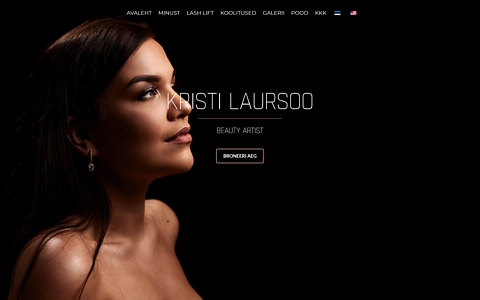
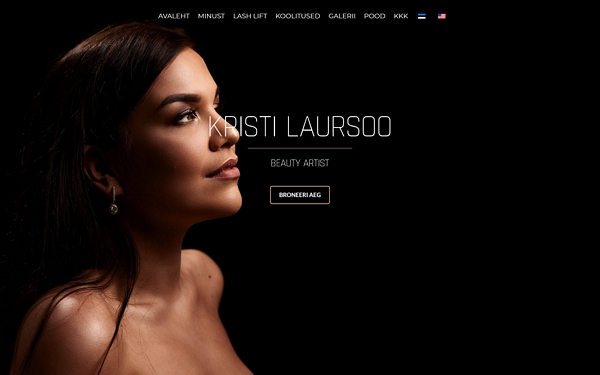
Spacing and margin improvements

diff --git a/index.html b/index.html
@@ -44,9 +44,9 @@
 <body id="page-top" data-spy="scroll" data-target="#side-nav">
 
 	<!-- Navigation -->
-	<nav class="navbar navbar-expand-lg navbar-dark fixed-top p-3" id="side-nav">
+	<nav class="navbar navbar-expand-xl navbar-dark fixed-top p-3" id="side-nav">
 		<a class="js-scroll-trigger" href="#page-top">
-			<img class="img-fluid rounded-circle img-profile d-none d-lg-block mt-2 mb-4" src="img/profile.jpg" alt="Image of Rauno">
+			<img class="img-fluid rounded-circle img-profile d-none d-xl-block mt-2 mb-4" src="img/profile.jpg" alt="Image of Rauno">
 		</a>
 		<button type="button" class="navbar-toggler collapsed" data-toggle="collapse" data-target="#navbarSupportedContent"
 		 aria-controls="navbarSupportedContent" aria-expanded="false" aria-label="Toggle navigation">
@@ -289,7 +289,7 @@
 						<h3 class="mb-0"><a href="https://beautyartistkristi.ee/" target="_blank">beautyartistkristi.ee</a></h3>
 						<div class="subheading mb-4">November 2018</div>
 						<div class="row">
-							<div class="col-sm-8 col-md-5 col-lg-2">
+							<div class="col-sm-9 col-md-5 col-lg-4 col-xl-2 my-auto">
 								<!-- Cover -->
 								<a data-fancybox="beautyartistkristi-gallery" href="img/projects/beautyartistkristi/cover.jpg"><img class="img-project-cover img-fluid"
 									 src="img/projects/beautyartistkristi/tn-cover.jpg"></a>
@@ -309,7 +309,7 @@
 									<a data-fancybox="beautyartistkristi-gallery" href="img/projects/beautyartistkristi/checkout.jpg"></a>
 								</div>
 							</div>
-							<div class="col-sm-8 col-md-7 my-auto" id="project-1">
+							<div class="col-sm-9 col-md-7 my-auto" id="project-1">
 								What to do when your client wants tons of functionality, whilst keeping the site
 								classy and minimal at the same time? You work with it. A booking system, fully-fledged
 								e-store, Instagram feed, comparison sliders, contact and registration forms - this site has it all.
@@ -327,7 +327,7 @@
 						<h3 class="mb-0"><span class="text-accentuated">bellafiore.ee</span></h3>
 						<div class="subheading mb-4">June 2018</div>
 						<div class="row">
-							<div class="col-sm-8 col-md-5 col-lg-2">
+							<div class="col-sm-9 col-md-5 col-lg-4 col-xl-2 my-auto">
 								<!-- Cover -->
 								<a data-fancybox="bellafiore-gallery" href="img/projects/bellafiore/home.jpg"><img class="img-project-cover img-fluid"
 									 src="img/projects/bellafiore/tn-home.jpg"></a>
@@ -341,7 +341,7 @@
 									<a data-fancybox="bellafiore-gallery" href="img/projects/bellafiore/checkout.jpg"></a>
 								</div>
 							</div>
-							<div class="col-sm-8 col-md-7 my-auto" id="project-2">
+							<div class="col-sm-9 col-md-7 my-auto" id="project-2">
 								A minimalistic take on e-commerce. Not all sites have to be feature-packed. This is an example of how to
 								meet the needs of a client who just wants something simple with minimal upkeep. Powered by WordPress, a no
 								bells-and-whistles approach ensures that the client can focus on building his/her business with close to no
@@ -359,7 +359,7 @@
 						<h3 class="mb-0"><span class="text-accentuated">leevik.ee</span></h3>
 						<div class="subheading mb-4">December 2017</div>
 						<div class="row">
-							<div class="col-sm-8 col-md-5 col-lg-2">
+							<div class="col-sm-9 col-md-5 col-lg-4 col-xl-2 my-auto">
 								<!-- Cover -->
 								<a data-fancybox="leevik-gallery" href="img/projects/leevik/cover.jpg"><img class="img-project-cover img-fluid"
 									 src="img/projects/leevik/tn-cover.jpg"></a>
@@ -372,7 +372,7 @@
 									<a data-fancybox="leevik-gallery" href="img/projects/leevik/contact-mobile.jpg"></a>
 								</div>
 							</div>
-							<div class="col-sm-8 col-md-7 my-auto" id="project-3">
+							<div class="col-sm-9 col-md-7 my-auto" id="project-3">
 								Website built on Ghost that aims to keep all focus on the portfolio of
 								photographer Daniel Leevik.
 								Uses a Masonry layout to provide maximum viewability and resposiveness on devices small and large. Reverse

diff --git a/js/functions.js b/js/functions.js
@@ -26,12 +26,15 @@ $(document).ready(function () {
 
 	// Animations on waypoint
 	$(".social-icons").waypoint(function () {
-		$(".social-icons > a").addClass("animated zoomIn");
-		$(".social-icons").css("visibility", "visible");
-		setTimeout(function () {
-			$(".social-icons > a").removeClass("animated zoomIn");
-			$(".social-icons > a").addClass("hvr-float");
-		}, 1050);
+		if (!$(this.element).hasClass("animation-complete")) {
+			$(".social-icons > a").addClass("animated zoomIn");
+			$(".social-icons").css("visibility", "visible");
+			setTimeout(function () {
+				$(".social-icons > a").removeClass("animated zoomIn");
+				$(".social-icons > a").addClass("hvr-float");
+				$(".social-icons").addClass("animation-complete");
+			}, 1000);
+		}
 	}, {
 		offset: "80%"
 	});
@@ -100,7 +103,7 @@ $(document).ready(function () {
 	});
 
 	$(".img-project-cover").waypoint(function () {
-		if(!$(this.element).hasClass("animation-complete")) {
+		if (!$(this.element).hasClass("animation-complete")) {
 			$(this.element).addClass('animated fadeInLeft');
 			$(this.element).css("visibility", "visible");
 			var currentImage = $(this.element);
@@ -108,7 +111,7 @@ $(document).ready(function () {
 				$(currentImage).removeClass("animated fadeInLeft");
 				$(currentImage).addClass("hvr-backward");
 				$(currentImage).addClass("animation-complete");
-			}, 1050);
+			}, 1000);
 		}
 	}, {
 		offset: "95%"

diff --git a/js/main.js b/js/main.js
@@ -63,12 +63,15 @@ $(document).ready(function () {
 
 	// Animations on waypoint
 	$(".social-icons").waypoint(function () {
-		$(".social-icons > a").addClass("animated zoomIn");
-		$(".social-icons").css("visibility", "visible");
-		setTimeout(function () {
-			$(".social-icons > a").removeClass("animated zoomIn");
-			$(".social-icons > a").addClass("hvr-float");
-		}, 1050);
+		if (!$(this.element).hasClass("animation-complete")) {
+			$(".social-icons > a").addClass("animated zoomIn");
+			$(".social-icons").css("visibility", "visible");
+			setTimeout(function () {
+				$(".social-icons > a").removeClass("animated zoomIn");
+				$(".social-icons > a").addClass("hvr-float");
+				$(".social-icons").addClass("animation-complete");
+			}, 1000);
+		}
 	}, {
 		offset: "80%"
 	});
@@ -137,7 +140,7 @@ $(document).ready(function () {
 	});
 
 	$(".img-project-cover").waypoint(function () {
-		if(!$(this.element).hasClass("animation-complete")) {
+		if (!$(this.element).hasClass("animation-complete")) {
 			$(this.element).addClass('animated fadeInLeft');
 			$(this.element).css("visibility", "visible");
 			var currentImage = $(this.element);
@@ -145,7 +148,7 @@ $(document).ready(function () {
 				$(currentImage).removeClass("animated fadeInLeft");
 				$(currentImage).addClass("hvr-backward");
 				$(currentImage).addClass("animation-complete");
-			}, 1050);
+			}, 1000);
 		}
 	}, {
 		offset: "95%"

diff --git a/css/main.css b/css/main.css
@@ -32,7 +32,7 @@ body {
   color: #ffffff;
   overflow-x: hidden;
   padding-top: 3rem; }
-  @media (min-width: 992px) {
+  @media (min-width: 1200px) {
     body {
       padding-top: 0;
       padding-left: 17.5rem; } }
@@ -87,6 +87,10 @@ hr {
   max-width: 80rem; }
   .resume-section #workflow li {
     margin-left: -15px; }
+  @media (min-width: 1200px) {
+    .resume-section#projects .col-xl-2 {
+      flex: 0 0 20%;
+      max-width: 20%; } }
   .resume-section .social-icons a {
     display: inline-block;
     height: 3.5rem;
@@ -121,7 +125,7 @@ hr {
 #side-nav {
   background: transparent;
   text-align: center; }
-  @media (min-width: 992px) {
+  @media (min-width: 1200px) {
     #side-nav {
       flex-direction: column;
       width: 17.5rem; }

diff --git a/css/scss/_resume-item.scss b/css/scss/_resume-item.scss
@@ -7,6 +7,16 @@
 		margin-left: -15px;
 	}
 
+	&#projects {
+
+		@media (min-width: 1200px) {
+			.col-xl-2 {
+				flex: 0 0 20%;
+				max-width: 20%;
+			}
+		}
+	}
+
 	.social-icons a {
 		display: inline-block;
 		height: 3.5rem;

diff --git a/css/scss/_global.scss b/css/scss/_global.scss
@@ -7,7 +7,7 @@ body {
 	overflow-x: hidden;
 	padding-top: 3rem;
 
-	@media (min-width: 992px) {
+	@media (min-width: 1200px) {
 		padding-top: 0;
 		padding-left: $sidebar-width;
 	}

diff --git a/css/scss/_nav.scss b/css/scss/_nav.scss
@@ -4,7 +4,7 @@
 	background: transparent;
 	text-align: center;
 
-	@media (min-width: 992px) {
+	@media (min-width: 1200px) {
 		flex-direction: column;
 		width: $sidebar-width;
 
